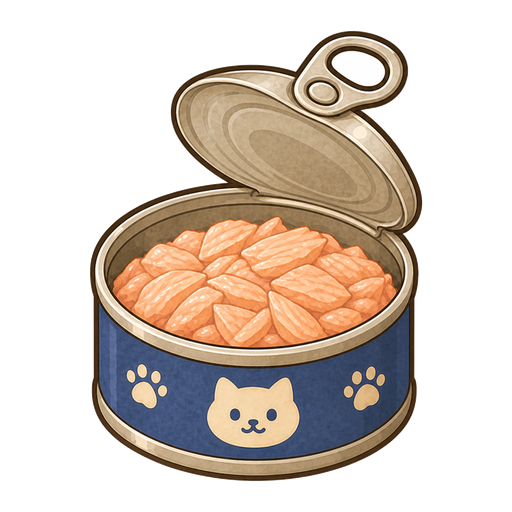
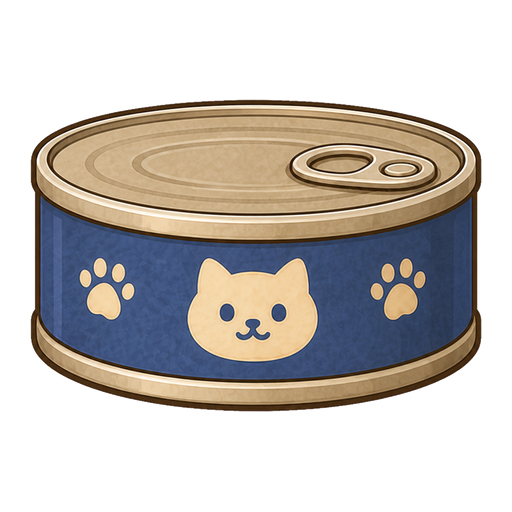
design: fix gift perspective and conditional room fixtures

diff --git a/design/gift-assets/GIFT-PROMPTS.md b/design/gift-assets/GIFT-PROMPTS.md
@@ -159,9 +159,10 @@ text, watermark, signature, frame, border, cropped edges, cat, animal, character
 가장 처음 주는 선물이고 제일 자주 보인다. 여기서 톤이 정해진다.
 
 ```
-An open tin can of tuna. Round shallow silver-cream can with the lid peeled
-halfway back and curled up, showing pale pink flaked tuna inside. The peeled
-lid catches a warm highlight. Simple bold shape, no label text.
+A closed tin can of tuna. Round shallow can with a muted vintage cobalt label,
+cream cat emblem, silver-cream rim, and a fully sealed flat lid with the pull
+tab attached. Use a low tabletop perspective: front label dominant, only a
+narrow shallow ellipse of the lid visible. No exposed tuna and no label text.
 ```
 
 ### ② 우유 접시 (15P)
@@ -240,7 +241,7 @@ top to bottom.
 
 ---
 
-## 부록 — 관계 흔적 4종 + 보관함 1종 (같이 뽑아야 한다)
+## 부록 — 관계 흔적 5종 + 보관함 1종 (같이 뽑아야 한다)
 
 선물만 그림이 되고 흔적이 이모지로 남으면, **흔적이 선물에 진다.**
 그러면 이 방은 관계가 쌓이는 공간이 아니라 쇼핑 진열대가 된다
@@ -257,8 +258,10 @@ top to bottom.
 | `box` | 전용 서류함 | `trace-03-box.png` | `A small archive storage box in warm kraft cardboard, lid slightly ajar, with a cream label plate on the front face and two round finger holes on the sides. Stacked document edges just visible under the lid.` |
 | `seal` | 전담 인장 | `trace-04-seal.png` | `A paper tag hanging from a short twine loop, ivory card stock with a punched hole and a maroon wax seal pressed onto its lower half. The wax seal is round with a simple paw-shaped impression. Slightly tilted.` |
 | `storage` | 비품 보관함 | `trace-05-storage.png` | `A closed archive storage box in warm kraft cardboard, lid fully on, with a cream label plate on the front and a twine handle. Neatly sealed, nothing spilling out. Simple sturdy container.` |
+| `plate` | 주인님 명패 | `trace-06-nameplate-frame.png` | `A wide low blank desk plaque with a rounded walnut frame, muted maroon inner face, broad cream text inset, and one small paw detail. No lettering inside the image.` |
 
-`plate`(전담 명패)는 주인님이 고른 문구가 들어가야 해서 **CSS로 그린다** — 이미지 없음.
+`plate`는 빈 명패 프레임만 이미지로 두고, `OO님의 냥집사`는 사용자 이름에 맞춰
+HTML/CSS 텍스트로 올린다. 구매·해금 전에는 렌더링하지 않는 책상 앞 고정 슬롯이다.
 
 ⚠ 보관함은 **닫혀 있어야** 한다. "집사가 하나도 안 버리고 정리해서 보관 중"이
 이 칸의 정서다. 열려서 물건이 삐져나오면 "쌓아둔 잡동사니"가 된다.
@@ -340,7 +343,8 @@ top to bottom.
 즉 희귀 슬롯은 하나가 아니라 형태별로 둘이어야 한다.
 
 - **가로형 희귀**(창가 방석) → 중앙 `bottom 13%`, 폭 44px — 고양이 앞에 놓인 자리
-- **세로형 희귀**(캣타워) → 측면 `left 22%` 또는 `78%`, `bottom 17%`, 폭 38px — 책상 옆에 선 가구
+- **세로형 희귀**(캣타워) → 구매 시에만 나타나는 오른쪽 고정 슬롯. 이동 금지.
+  `방 배경 < 캣타워 < 고양이 < 책상 전경` 순서로 두고 하단을 책상이 가린다.
 
 R5에서 에셋을 연결할 때 `CAT_ROOM_RARE_SLOT` 하나를 형태별 두 슬롯으로 나눈다.
 에셋 쪽에서 고칠 것은 없다.
